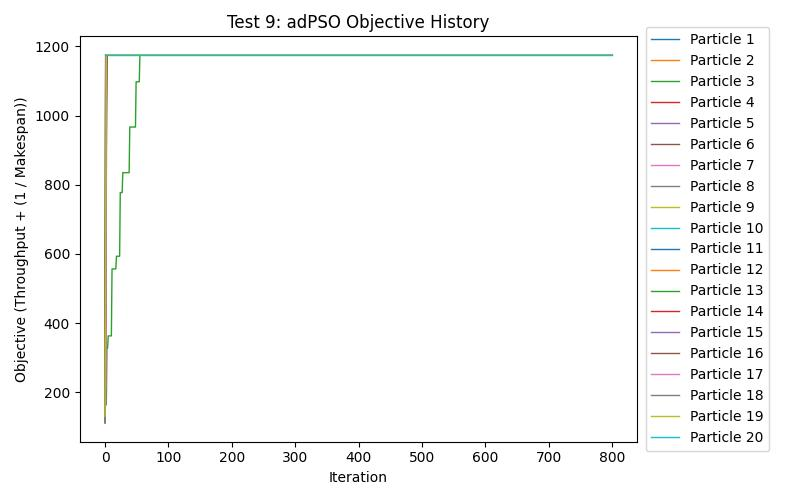
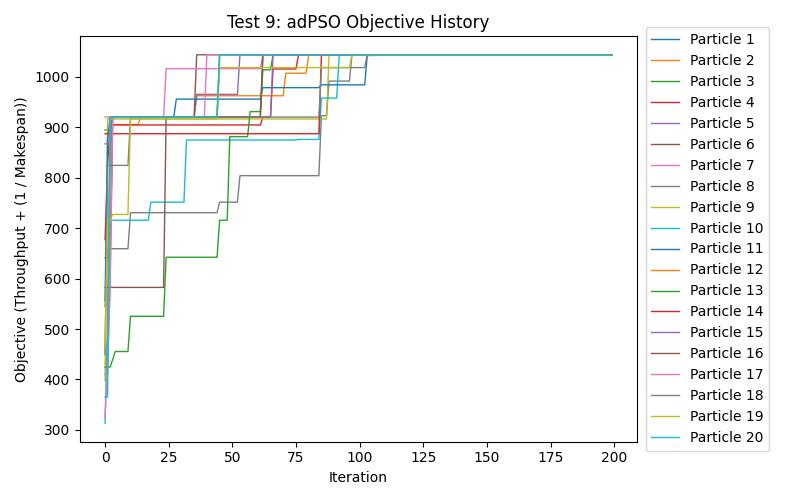
hyperparameter tuning; start EC tracking

diff --git a/psoscheduler/src/main/java/syslab/cloudcomputing/pso/Particle.java b/psoscheduler/src/main/java/syslab/cloudcomputing/pso/Particle.java
@@ -1,7 +1,6 @@
 package syslab.cloudcomputing.pso;
 
 import java.util.ArrayList;
-import java.util.Collections;
 import java.util.HashMap;
 
 import syslab.cloudcomputing.simulation.DataCenter;
@@ -118,6 +117,8 @@ public class Particle {
   }
 
   // Minimum completion time algorithm used for initialization as per https://www.sciencedirect.com/science/article/pii/S1319157820305279#e0045
+  // This paper supports MCT usage: https://pdf.sciencedirectassets.com/280416/1-s2.0-S1319157820X00024/1-s2.0-S1319157817303361/main.pdf?X-Amz-Security-Token=IQoJb3JpZ2luX2VjEGEaCXVzLWVhc3QtMSJHMEUCIAnFYurY1Gus9viOlcuoWEPxbszjPz4HQywtBp4gRh2GAiEAvCwsSvysGBgk38ovbjyhKrNg3VQ7falBDsL%2Ffm1nqVUqvAUImv%2F%2F%2F%2F%2F%2F%2F%2F%2F%2FARAFGgwwNTkwMDM1NDY4NjUiDGcVxoQOmcec9UawiCqQBW3bNWEVUrCl35LbcAN1dLjqbZn01QwmpbbU2bjRA8J9EpXK1akvweU%2FwpxmEETHuQX8xXJeoWZk7QTSshMpT8cvEBmLG4HP0Knm4eyZAnB2WMRwuM3gUOubgBo1Bk5sWCpHQD2mpFJCe9NdnxonfqgebtDHRk68R%2BEJlSA14HkYQxvO3lVlg0hYrIUWV%2FP22SOw%2Bu3jSgQXkFh8jNHg884mxOwPSm%2F%2Fi60qXfDqGT9JnHjZ45FEQlg%2FD2T70Fq7Y74S6idhaq26CZ%2FzmVPJE%2BHgTsM3xbZTk9pJ6ewwSUHOxBKdmWHAwTbYBD4V2fBTPHYl96%2BaQNXtfnIOlkUnrXIBK8cfq4n3ak6xhwJ4p7fq8J7nYHIG1W5iA5MRgqigydWMa2kQQlrJPQwZy%2BzEp4n3fo7tc0E5pGqn70qGYUJVXKVXScfxont8PO812GbgXFuyJ3tyvIVdmb%2BYWQ1PSWb9cBDilrwT8DU5oqVTYGK7smM635ymN2LI%2BOsJ0tNFEJkACKTL8VrMo1qvlFi%2BtRzCeFdIestbSe6dVT1FeBtlPkm71xnj1rwp20oh94UjBClbruYulMteGIGa7jL9QUN33Miy6YcRzZxM6xepF36hXYz9zfVndFe6%2BaU9MdUn6eVYe8LaP%2BhGD5ReyVlR6ojss2R692fxnVxDdjUmKjjufpS2FkZEth7sUe2CdH3j6lyk7EldzztaDfu2EyeSgCj8YpxNDqvFYhO4l5HRutYG7EcqWb0qCoTr1S79SUOG0B%2Br2b2dBUYQDezsfFmA0ZT65DjdHaXScAZePIVgj%2FwBWwjGhtcZY5u1BoZ5wH4hUPqeqBvW73CtxL6Jsi7BwRiUjk44GSeBd6mKTSZRq%2BQmMJiHpqoGOrEBQGG%2FjXIrv2ZN2RY2l4NKeKTUcOLpR4EzE8sV23YtG51mF6kGX35v9aivZEwWqPZawpXx568%2F6vAcdM41WD1%2BcoLDzWV2DkmAcwO30NqnOR6CKVsnyhvXOfnbVKV24Ay7IKgxvERi%2BHL8x4%2F83GBCB3Wt%2BJXBGBFstvrpJjU6AVy4XxIVfHXp8nP%2BD7N3yU5y5JRkLZwgAHePh2PPlcVwwx%2F1CfYRuAu2pBlKWtTR8cq2&X-Amz-Algorithm=AWS4-HMAC-SHA256&X-Amz-Date=20231107T003741Z&X-Amz-SignedHeaders=host&X-Amz-Expires=300&X-Amz-Credential=ASIAQ3PHCVTYQLJ5R7PC%2F20231107%2Fus-east-1%2Fs3%2Faws4_request&X-Amz-Signature=990bc81ef32fb65c2e80efca27d3ec0328bcd903c6e9e5512ec0a4746453ce9c&hash=47ee638ef3e8fbf8d3fe647506afbc3712143b9210ac8e0b20c33ae2b38f120f&host=68042c943591013ac2b2430a89b270f6af2c76d8dfd086a07176afe7c76c2c61&pii=S1319157817303361&tid=spdf-216d5cd9-c2e1-44b6-a4fc-059dcfd86f5e&sid=2927ae6c23c719410f2a51a784616f99fc1agxrqa&type=client&tsoh=d3d3LnNjaWVuY2VkaXJlY3QuY29t&ua=131c585d53555b5556&rr=8221825779b64cd4&cc=us
+  //    for both makespan and energy consumption
   private void mctInitialization() {
     // Attempt to overcome this issue with getting stuck in local optimums: https://www.mdpi.com/1999-4893/11/2/23
     // Potential remedy: https://www.intechopen.com/journals/1/articles/117
@@ -125,20 +126,16 @@ public class Particle {
 
     this.dataCenter.resetVirtualMachineReadyTimes();
 
-    ArrayList<Task> tasks = new ArrayList<Task>(this.workload.getTasks());
-    Collections.shuffle(tasks);
+    ArrayList<Task> tasks = this.workload.getSortedTasks(true);
 
     for (Task t : tasks) {
       VirtualMachine vm = this.dataCenter.getVmWithMinEET(t);
-      if (Utilities.getRandomDouble(0, 1) > 0.3) {
-        this.position.setComponent(t.getId() - 1, vm.getId() - 1, 1);
-        this.dataCenter.addExecutionTimeToVirtualMachine(t, vm);
-      } else {
+      if (Utilities.getRandomDouble(0, 1) < 0.25) {
         int vmId = Utilities.getRandomInteger(0, this.dataCenter.getVirtualMachineCount() - 1);
-        VirtualMachine randomVm = this.dataCenter.getVirtualMachineById(vmId);
-        this.position.setComponent(t.getId() - 1, vmId, 1);
-        this.dataCenter.addExecutionTimeToVirtualMachine(t, randomVm);
+        vm = this.dataCenter.getVirtualMachineById(vmId);
       }
+      this.position.setComponent(t.getId() - 1, vm.getId() - 1, 1);
+      this.dataCenter.addExecutionTimeToVirtualMachine(t, vm);
     }
     
     this.velocity = new Matrix(this.workload.getTaskCount(), this.dataCenter.getVirtualMachineCount());
@@ -159,7 +156,7 @@ public class Particle {
     this.position = new Matrix(this.workload.getTaskCount(), this.dataCenter.getVirtualMachineCount());
     
     ArrayList<VirtualMachine> sortedVms = this.dataCenter.getSortedVirtualMachines();
-    ArrayList<Task> sortedTasks = this.workload.getSortedTasks();
+    ArrayList<Task> sortedTasks = this.workload.getSortedTasks(false);
 
     int vmQ3 = sortedVms.size() * 1 / 2;
     int taskQ3 = sortedTasks.size() * 1 / 2;

diff --git a/psoscheduler/src/main/java/syslab/cloudcomputing/simulation/VirtualMachine.java b/psoscheduler/src/main/java/syslab/cloudcomputing/simulation/VirtualMachine.java
@@ -9,11 +9,29 @@ public class VirtualMachine {
 	private int id;
 	private int dataCenterId;
 	private int millionsOfInstructionsPerSecond;
+	private double activeStateJoulesPerMillionInstructions;
 
 	public VirtualMachine(int millionsOfInstructionsPerSecond) {
 		this.id = VirtualMachine.idCounter++;
 		this.millionsOfInstructionsPerSecond = millionsOfInstructionsPerSecond;
+		this.activeStateJoulesPerMillionInstructions = 
 		this.dataCenterId = 0;
+	}
+
+	public VirtualMachine(int millionsOfInstructionsPerSecond, double activeStateJoulesPerMillionInstructions) {
+		this.id = VirtualMachine.idCounter++;
+		this.millionsOfInstructionsPerSecond = millionsOfInstructionsPerSecond;
+		this.activeStateJoulesPerMillionInstructions = activeStateJoulesPerMillionInstructions;
+		this.dataCenterId = 0;
+	}
+
+	public double getActiveStateJoulesPerMillionInstructions() {
+		return this.activeStateJoulesPerMillionInstructions;
+	}
+
+	public double getIdleStateJoulesPerMillionInstructions() {
+		// According to https://pdf.sciencedirectassets.com/280416/1-s2.0-S1319157820X00024/1-s2.0-S1319157817303361/main.pdf?X-Amz-Security-Token=IQoJb3JpZ2luX2VjEGEaCXVzLWVhc3QtMSJHMEUCIAnFYurY1Gus9viOlcuoWEPxbszjPz4HQywtBp4gRh2GAiEAvCwsSvysGBgk38ovbjyhKrNg3VQ7falBDsL%2Ffm1nqVUqvAUImv%2F%2F%2F%2F%2F%2F%2F%2F%2F%2FARAFGgwwNTkwMDM1NDY4NjUiDGcVxoQOmcec9UawiCqQBW3bNWEVUrCl35LbcAN1dLjqbZn01QwmpbbU2bjRA8J9EpXK1akvweU%2FwpxmEETHuQX8xXJeoWZk7QTSshMpT8cvEBmLG4HP0Knm4eyZAnB2WMRwuM3gUOubgBo1Bk5sWCpHQD2mpFJCe9NdnxonfqgebtDHRk68R%2BEJlSA14HkYQxvO3lVlg0hYrIUWV%2FP22SOw%2Bu3jSgQXkFh8jNHg884mxOwPSm%2F%2Fi60qXfDqGT9JnHjZ45FEQlg%2FD2T70Fq7Y74S6idhaq26CZ%2FzmVPJE%2BHgTsM3xbZTk9pJ6ewwSUHOxBKdmWHAwTbYBD4V2fBTPHYl96%2BaQNXtfnIOlkUnrXIBK8cfq4n3ak6xhwJ4p7fq8J7nYHIG1W5iA5MRgqigydWMa2kQQlrJPQwZy%2BzEp4n3fo7tc0E5pGqn70qGYUJVXKVXScfxont8PO812GbgXFuyJ3tyvIVdmb%2BYWQ1PSWb9cBDilrwT8DU5oqVTYGK7smM635ymN2LI%2BOsJ0tNFEJkACKTL8VrMo1qvlFi%2BtRzCeFdIestbSe6dVT1FeBtlPkm71xnj1rwp20oh94UjBClbruYulMteGIGa7jL9QUN33Miy6YcRzZxM6xepF36hXYz9zfVndFe6%2BaU9MdUn6eVYe8LaP%2BhGD5ReyVlR6ojss2R692fxnVxDdjUmKjjufpS2FkZEth7sUe2CdH3j6lyk7EldzztaDfu2EyeSgCj8YpxNDqvFYhO4l5HRutYG7EcqWb0qCoTr1S79SUOG0B%2Br2b2dBUYQDezsfFmA0ZT65DjdHaXScAZePIVgj%2FwBWwjGhtcZY5u1BoZ5wH4hUPqeqBvW73CtxL6Jsi7BwRiUjk44GSeBd6mKTSZRq%2BQmMJiHpqoGOrEBQGG%2FjXIrv2ZN2RY2l4NKeKTUcOLpR4EzE8sV23YtG51mF6kGX35v9aivZEwWqPZawpXx568%2F6vAcdM41WD1%2BcoLDzWV2DkmAcwO30NqnOR6CKVsnyhvXOfnbVKV24Ay7IKgxvERi%2BHL8x4%2F83GBCB3Wt%2BJXBGBFstvrpJjU6AVy4XxIVfHXp8nP%2BD7N3yU5y5JRkLZwgAHePh2PPlcVwwx%2F1CfYRuAu2pBlKWtTR8cq2&X-Amz-Algorithm=AWS4-HMAC-SHA256&X-Amz-Date=20231107T003741Z&X-Amz-SignedHeaders=host&X-Amz-Expires=300&X-Amz-Credential=ASIAQ3PHCVTYQLJ5R7PC%2F20231107%2Fus-east-1%2Fs3%2Faws4_request&X-Amz-Signature=990bc81ef32fb65c2e80efca27d3ec0328bcd903c6e9e5512ec0a4746453ce9c&hash=47ee638ef3e8fbf8d3fe647506afbc3712143b9210ac8e0b20c33ae2b38f120f&host=68042c943591013ac2b2430a89b270f6af2c76d8dfd086a07176afe7c76c2c61&pii=S1319157817303361&tid=spdf-216d5cd9-c2e1-44b6-a4fc-059dcfd86f5e&sid=2927ae6c23c719410f2a51a784616f99fc1agxrqa&type=client&tsoh=d3d3LnNjaWVuY2VkaXJlY3QuY29t&ua=131c585d53555b5556&rr=8221825779b64cd4&cc=us
+		return this.activeStateJoulesPerMillionInstructions * 0.6;
 	}
 	
 	public int hashCode() {

diff --git a/psoscheduler/src/main/java/syslab/cloudcomputing/schedule/Scheduler.java b/psoscheduler/src/main/java/syslab/cloudcomputing/schedule/Scheduler.java
@@ -289,4 +289,32 @@ public class Scheduler {
         Workload workload = new Workload(tasks);
         return workload;
     }
+
+    // Task 11 corresponds to the setup in following paper's first scenario
+    // https://www.sciencedirect.com/science/article/pii/S1319157820305279#e0045
+    // This time it includes varying 
+    public static DataCenter test11_DataCenter() {
+        int nVms = 100;
+        int vmMipsHigh = 5000;
+        int vmMipsLow = 1000;
+
+        int activeStateJoulesPerMillionInstructionsLow = 200;   // TODO Is this correct?
+        int activeStateJoulesPerMillionInstructionsHigh = 1000;
+
+        ArrayList<VirtualMachine> vms = new ArrayList<VirtualMachine>();
+
+        for (int i = 0; i < nVms; i++) {
+            vms.add(new VirtualMachine(
+                Utilities.getRandomInteger(vmMipsLow, vmMipsHigh),
+                Utilities.getRandomInteger(activeStateJoulesPerMillionInstructionsLow, activeStateJoulesPerMillionInstructionsHigh);
+            ));
+        }
+
+        DataCenter dataCenter = new CustomDataCenter(vms);
+        return dataCenter;
+    }
+
+    public static Workload test11_Workload() {
+        return test10_Workload();
+    }
 }

diff --git a/psoscheduler/src/main/java/syslab/cloudcomputing/pso/PSOSwarm.java b/psoscheduler/src/main/java/syslab/cloudcomputing/pso/PSOSwarm.java
@@ -13,9 +13,9 @@ public class PSOSwarm {
   private final double w1 = 0.9;
   private final double w2 = 0.4;
 
-  private final int maxIterations = 400;
+  private final int maxIterations = 200;
   private static final int nSwarms = 5;
-  private static final int nParticles = 20;
+  private static final int nParticles = 70;
 
   private double p_s = 1.0;
 
@@ -50,8 +50,6 @@ public class PSOSwarm {
     this.findGlobalBest();
     // TODO remove the below line when benchmarking
     // this.getGlobalBestTaskVmMapping();
-
-    System.out.println(this.globalBestMakespan);
   }
 
   private void updateTaskVmMapping() {

diff --git a/psoscheduler/src/main/java/syslab/cloudcomputing/simulation/Workload.java b/psoscheduler/src/main/java/syslab/cloudcomputing/simulation/Workload.java
@@ -31,9 +31,13 @@ public class Workload {
     return null;
   }
 
-  public ArrayList<Task> getSortedTasks() {
+  public ArrayList<Task> getSortedTasks(Boolean reversed) {
     ArrayList<Task> tasks = new ArrayList<>(this.tasks);
-    Collections.sort(tasks, Comparator.comparing(Task::getMillionsOfInstructions));
+    if (reversed) {
+      Collections.sort(tasks, Comparator.comparing(Task::getMillionsOfInstructions).reversed());
+    } else {
+      Collections.sort(tasks, Comparator.comparing(Task::getMillionsOfInstructions));
+    }
     return tasks;
   }
 

diff --git a/plot_objective_history.py b/plot_objective_history.py
@@ -13,7 +13,7 @@ def plot(test_id, particle_histories, path):
   plt.xlabel("Iteration")
   plt.ylabel("Objective (Throughput + (1 / Makespan))")
   plt.legend(bbox_to_anchor = (1.25, 0.5), loc='center right')
-  # plt.tight_layout()
+  plt.tight_layout()
 
   plt.savefig(path)
 
